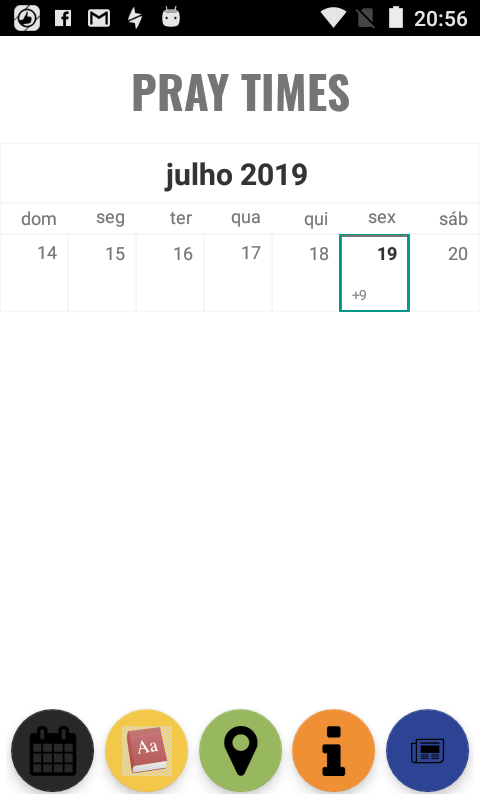
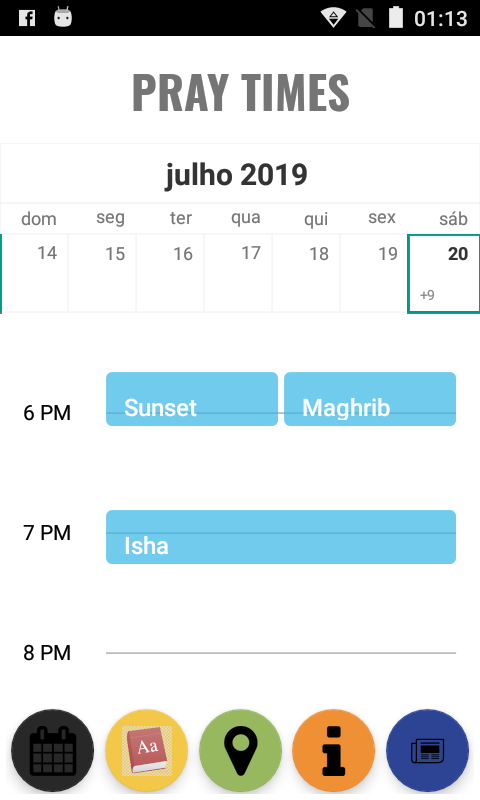
Imagem atualizada com bug corrigido.O texto foi acrescido também com informações relativos a artigos futuros relacionados a este algortimo.

diff --git a/_posts/2019-07-19-Islamic_App_-_Testes_Iniciados.md b/_posts/2019-07-19-Islamic_App_-_Testes_Iniciados.md
@@ -15,13 +15,19 @@ Este aplicativo está sendo desenvolvido com diversos propósitos, primeiro me a
 
 ![Islamic APP]({{site.url}}/assets/images/islamic-app/Screenshot_20190719-205625.png)
 
-O Fonte somente será liberado na versão 0.0.2-beta quando todas as funcionalidades básicas estiverem implementadas
+O Fonte somente será liberado na versão 0.0.2-beta quando todas as funcionalidades básicas estiverem implementadas. porém veja que os algoritmos principais estão disponíveis nos módulos e componentes em seus respetivos repositórios:
 
 - [Calendário - em processo de finalização](https://github.com/islamic-works/praytimes-module)
 - [Glossário - Versão beta liberada](https://github.com/islamic-works/glossary-module)
 - Localização - por desenvolver
 - Sobre - Versão beta liberada
 - [Rss Feed Read - Versão beta liberada](https://github.com/islamic-works/rss-reader-module)
+
+## Calculando os Horários de Oração
+
+Algoritmo para calculo dos horários de oração.
+
+Estou planejando já na próxima semana descrever o algorítimo de calculo dos horários de oração.
 
 ## Apoio
 
